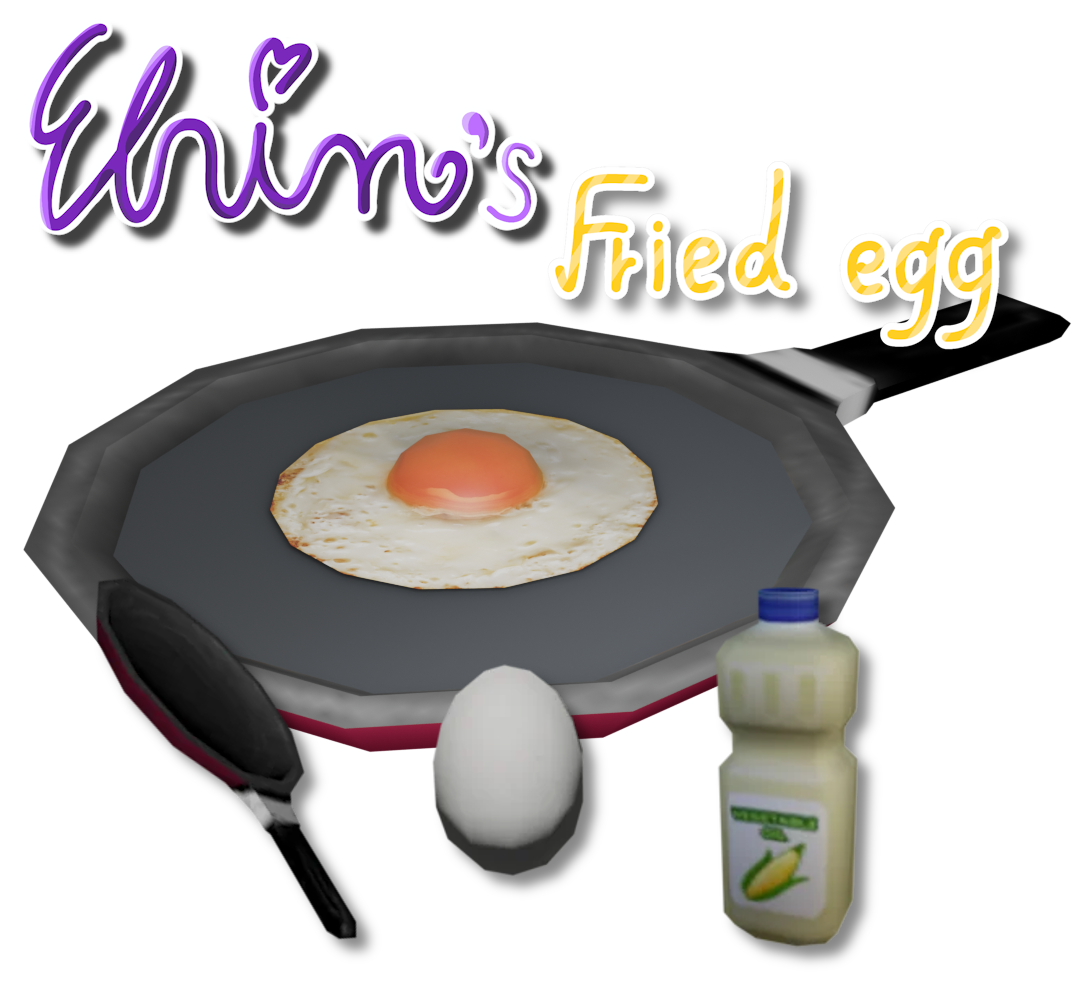
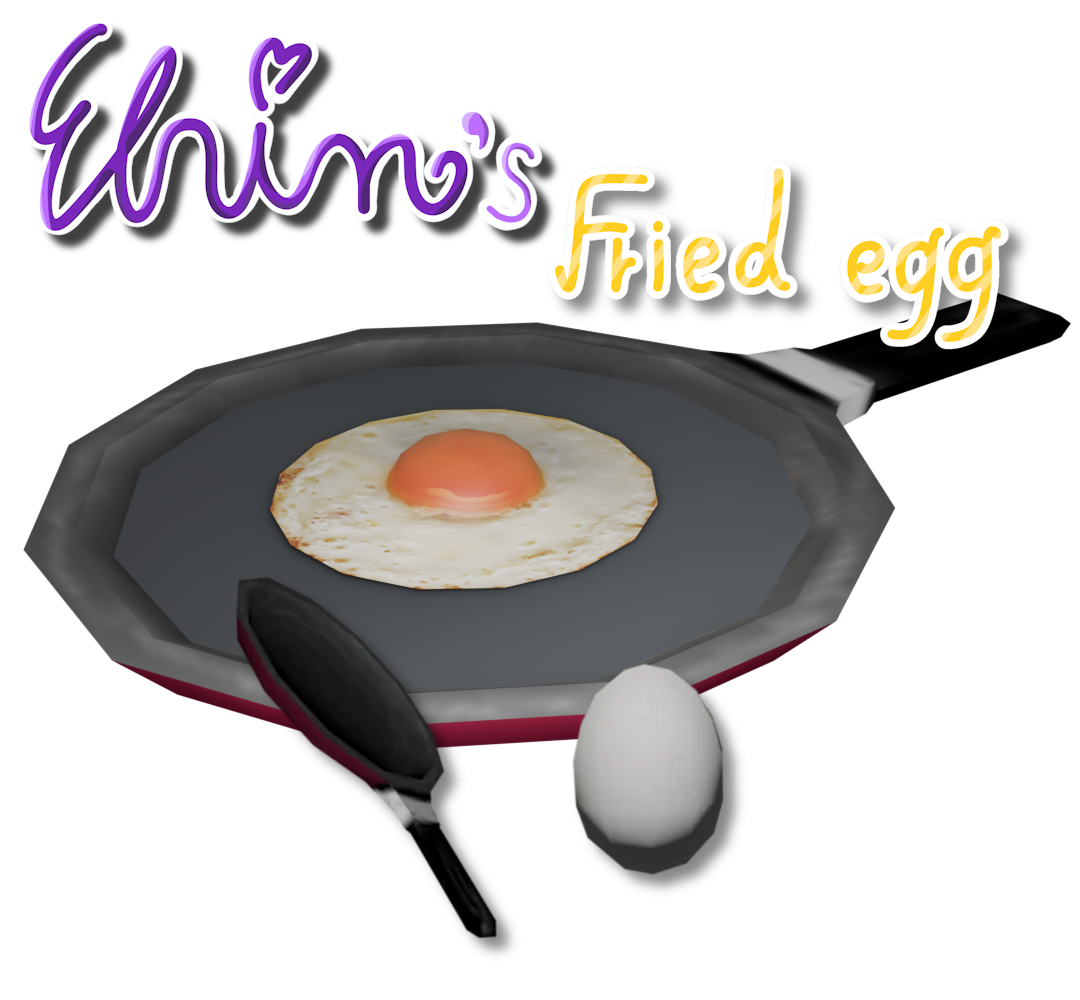
Update 14 8 2569

Changed region(s): [[0.0917, 0.558, 0.825, 0.961]]

diff --git a/ArtGallery.html b/ArtGallery.html
@@ -173,6 +173,36 @@
                 </div>
             </div>
 
+            <div class="CardB-card">
+                <div class="gallery-img-box">
+                    <img src="GFX/Blueprint_1.png" alt="Model 3">
+                </div>
+                <div class="Card-info-text">
+                    <h4>Blueprint of Spring Bonnie</h4>
+                    <p>Blender - 14/8/2569</p>
+                </div>
+            </div>
+
+            <div class="CardB-card">
+                <div class="gallery-img-box">
+                    <img src="GFX/Recipe_Eodoskeleton_Frame.png" alt="Model 3">
+                </div>
+                <div class="Card-info-text">
+                    <h4>Recipe of Eodoskeleton Frame</h4>
+                    <p>Blender - 14/8/2569</p>
+                </div>
+            </div>
+
+            <div class="CardB-card">
+                <div class="gallery-img-box">
+                    <img src="GFX/Recipe_Spring_Bonnie_A.png" alt="Model 3">
+                </div>
+                <div class="Card-info-text">
+                    <h4>Recipe of Spring Bonnie</h4>
+                    <p>Blender - 14/8/2569</p>
+                </div>
+            </div>
+
         </div>
     </section>
 
